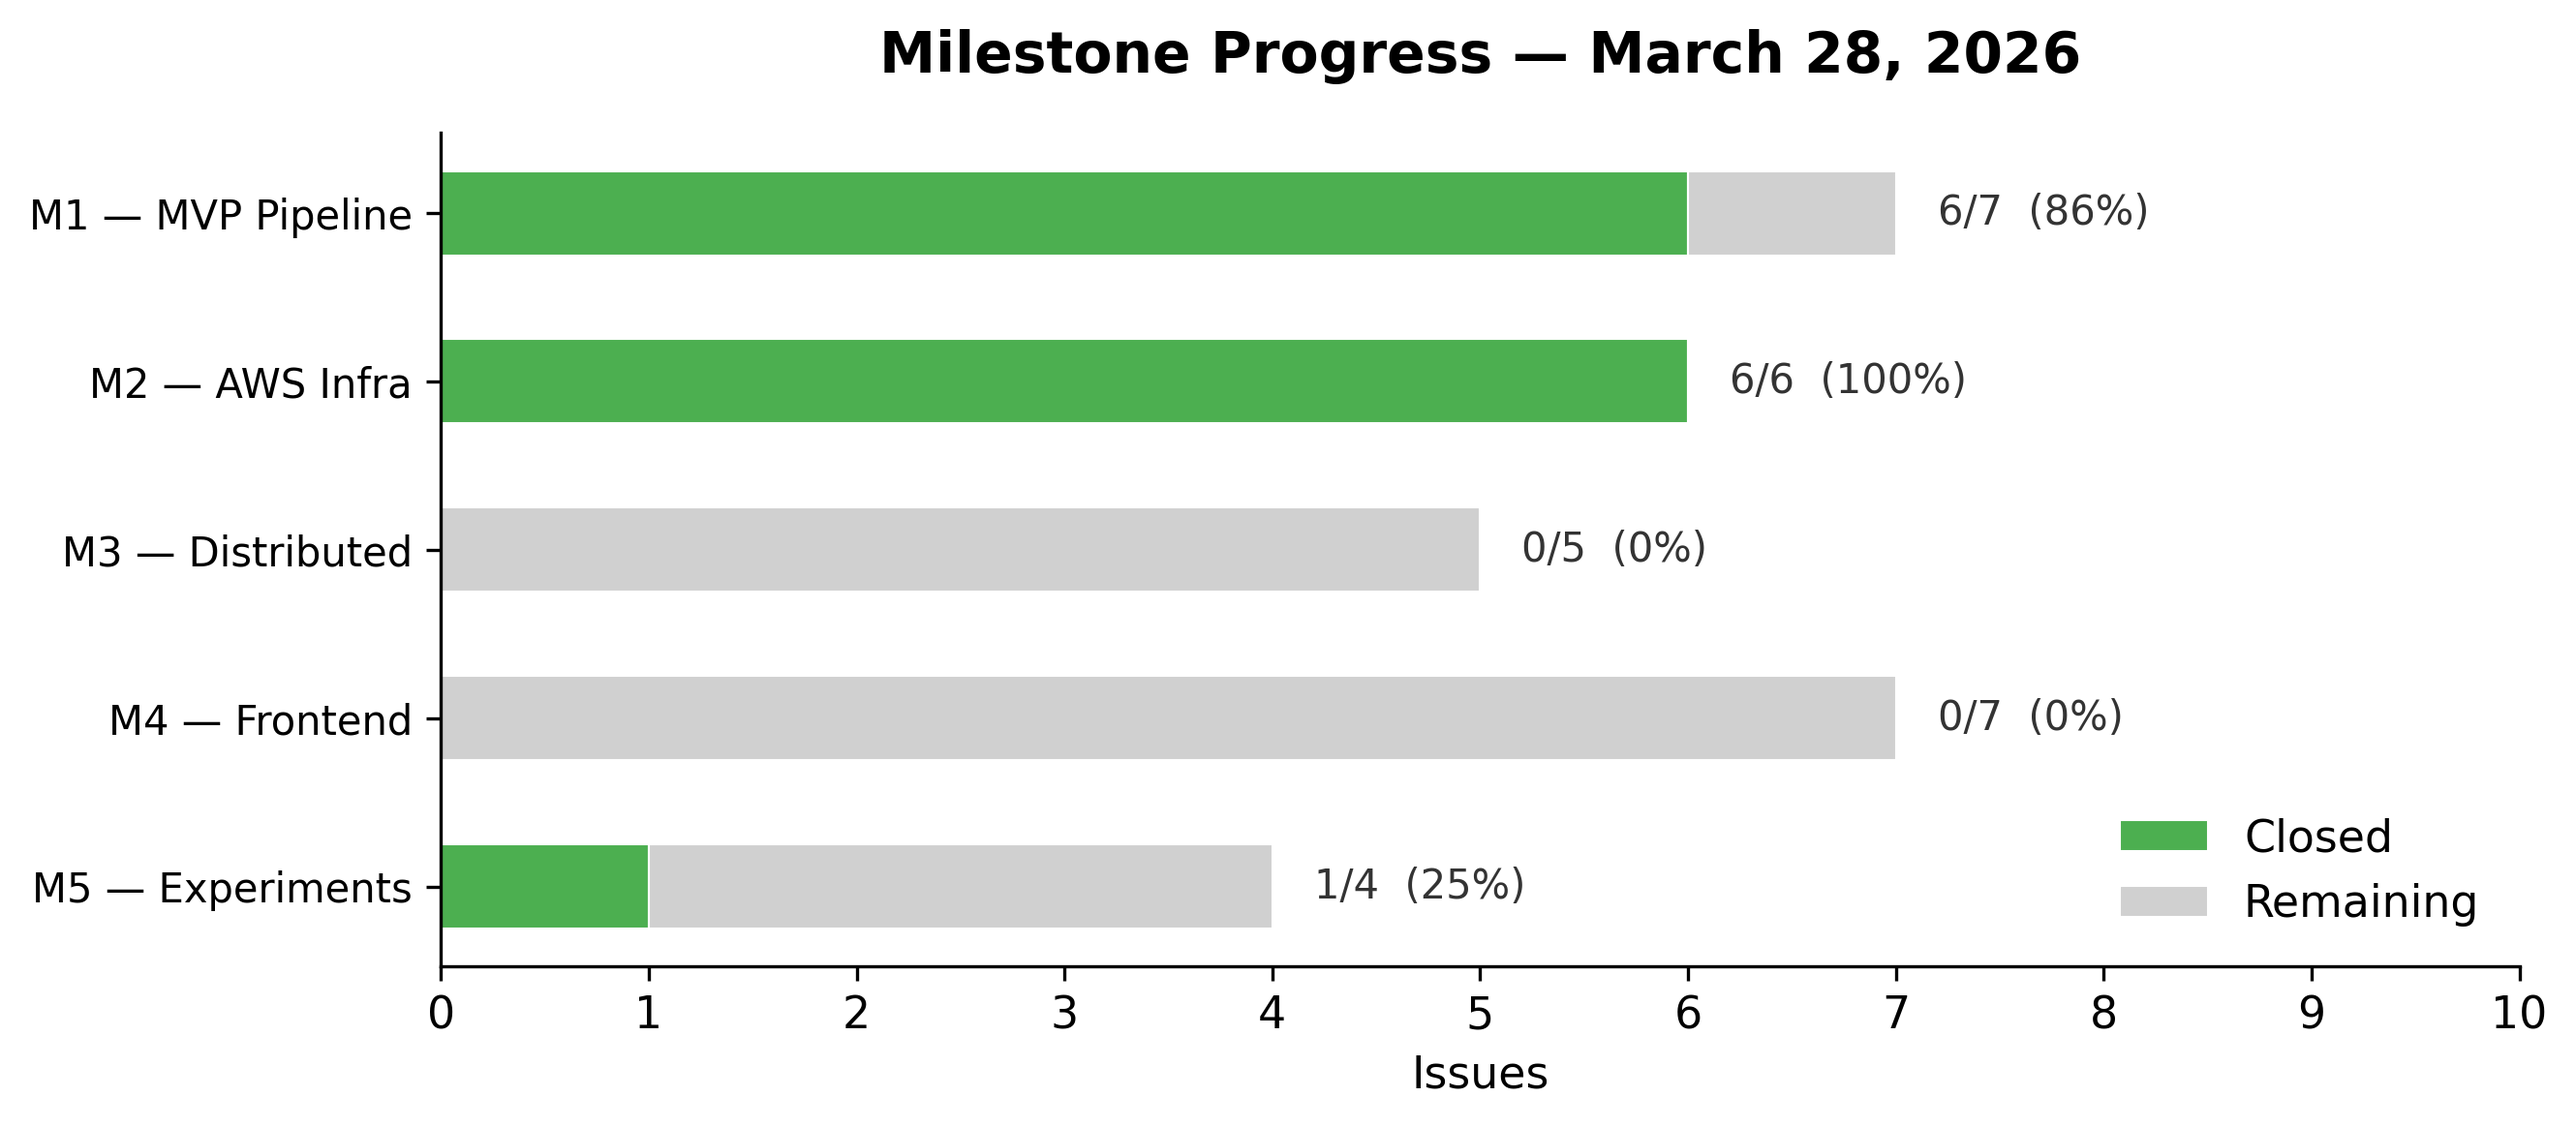
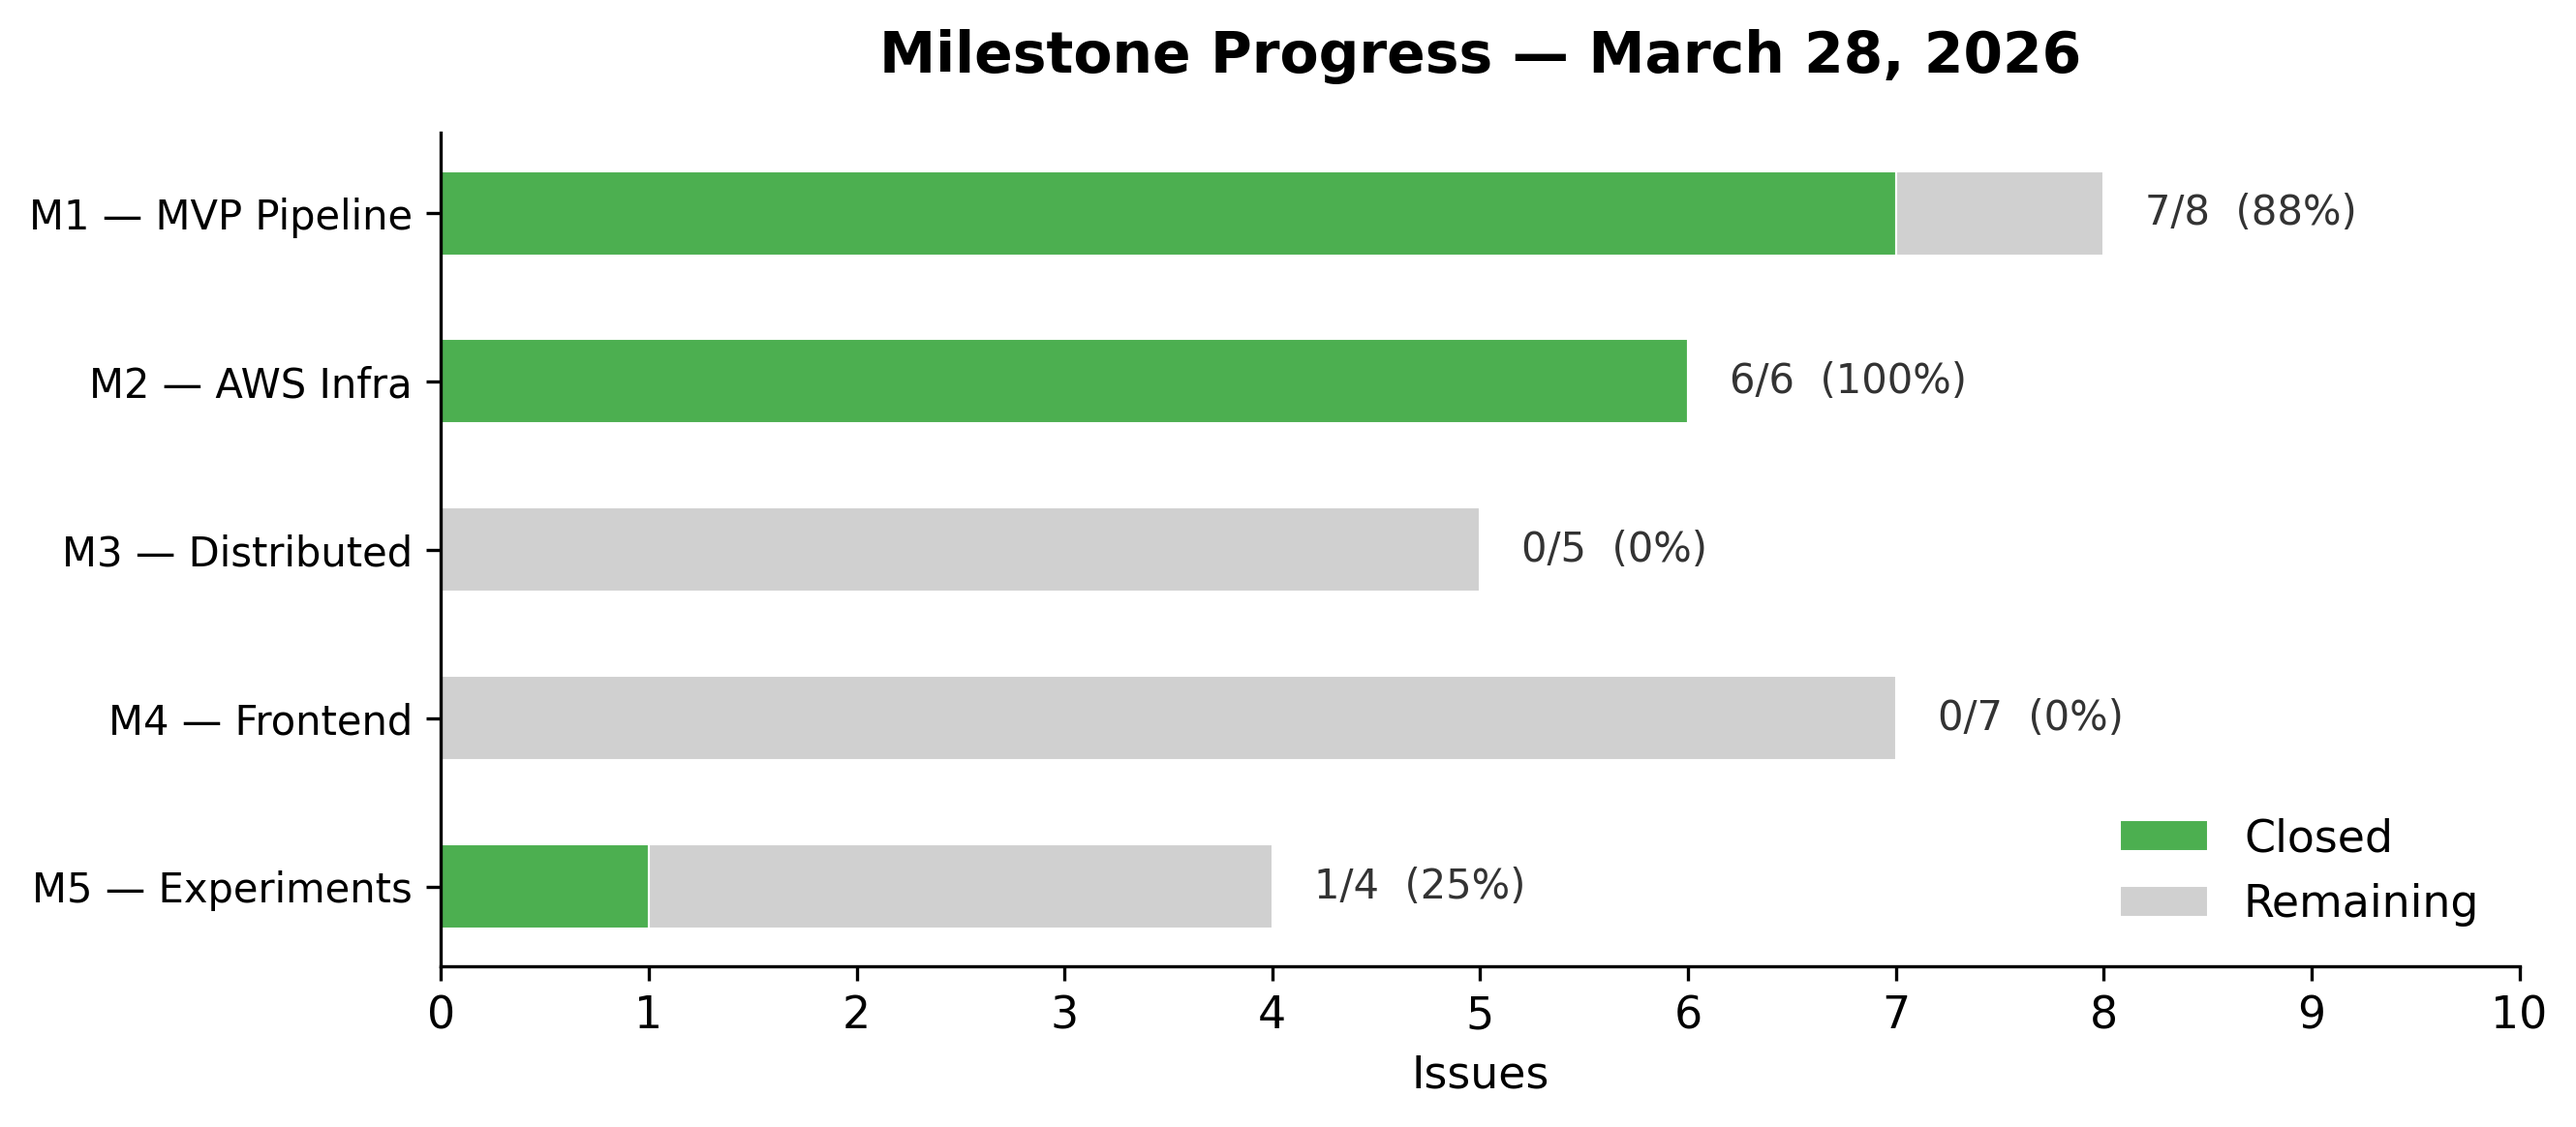
docs: add related projects, fix milestone counts, regenerate charts
- Add 3 related Piazza projects to report (from Jess's research)
- Add real pipeline output (2 generated scripts) to preliminary results
- Fix M1 count: 7/8 closed (was incorrectly 6/7) — includes #60 Kimi provider
- Fix chart y-axis clipping for request count annotations
- Regenerate all charts with corrected data

Changed region(s): [[0.6553, 0.1546, 0.9049, 0.2474]]

diff --git a/scripts/generate_charts.py b/scripts/generate_charts.py
@@ -59,7 +59,7 @@ def chart_token_usage() -> None:
     ax.set_xticklabels(stages, fontsize=10)
     ax.yaxis.set_major_formatter(ticker.FuncFormatter(lambda v, _: f"{int(v):,}"))
     ax.legend(frameon=False, loc="upper left")
-    ax.set_ylim(0, 6500)
+    ax.set_ylim(-1000, 6500)
 
     fig.tight_layout()
     fig.savefig(OUT_DIR / "token_usage_by_stage.png", dpi=300, bbox_inches="tight")
@@ -114,8 +114,8 @@ def chart_milestone_progress() -> None:
         "M4 — Frontend",
         "M5 — Experiments",
     ]
-    closed = [6, 6, 0, 0, 1]
-    total = [7, 6, 5, 7, 4]
+    closed = [7, 6, 0, 0, 1]
+    total = [8, 6, 5, 7, 4]
     remaining = [t - c for t, c in zip(total, closed)]
     pcts = [c / t * 100 for c, t in zip(closed, total)]
 

diff --git a/docs/homework/milestone-1-report.md b/docs/homework/milestone-1-report.md
@@ -53,7 +53,7 @@ Observability is built into the pipeline from day one, not retrofitted:
 
 | Milestone | Owner | Dates | Status |
 |-----------|-------|-------|--------|
-| M1 — MVP Pipeline | Sam | Mar 25–28 | 86% complete |
+| M1 — MVP Pipeline | Sam | Mar 25–28 | 88% complete (7/8, 1 suspended) |
 | M2 — AWS Infrastructure | Jess | Mar 28–Apr 4 | 100% complete (ahead of schedule) |
 | M3 — Distributed System | Both | Apr 4–8 | Planned |
 | M4 — Frontend | Sam | Apr 8–11 | Planned |
@@ -111,9 +111,29 @@ Every LLM call is tracked by the `UsageTracker` with stage identity, token count
 - **YouTube/TikTok Trends 2025** (CC BY 4.0) — 48,000 engagement signals providing ground-truth data on what content actually performs
 - **Viral content psychology research** — 8,300+ lines of synthesized research documents in the repository, distilled into pipeline prompts
 
-### Piazza Projects
+### Related Class Projects
 
-*[To be completed after reviewing Piazza submissions]*
+**1. Compute-Limited GenAI Platform Backend — Srijan Pokharel & Pranjal Kanel**
+
+This project is the closest conceptual match to ours. Both systems are built around a central question: how do you handle LLM workloads under compute and API constraints? Their architecture decouples request intake from processing via a queue and models compute scarcity by capping worker concurrency — then runs controlled experiments to observe saturation, tail latency, and overload behavior.
+
+The overlap is most direct in their Experiment 3 (bounded queue + API rate limiting vs. unbounded queue vs. rejection), which maps almost exactly to our Experiment 1, where we measure a Redis token bucket rate limiter under multi-tenant LLM API contention. Both experiments ask the same underlying question: what is the right overload strategy, and what does the system actually lose under each policy?
+
+The key architectural difference is in how the LLM is represented. Their system simulates the LLM pipeline with controlled preprocessing and inference delays, which gives clean experimental control over latency distributions. Our system calls real external APIs (Kimi K2.5 / Gemini), which introduces real-world variance — provider cold starts, unpredictable response times, and quota enforcement behavior that cannot be replicated in simulation. Each approach has its tradeoff: their setup isolates variables more cleanly; ours captures the messiness of production API dependencies.
+
+**2. StreamScale: Distributed Music Streaming Backend — Yatish, Mayank, Parthav**
+
+StreamScale and our project share a substantial technical substrate. Both systems are built on microservices deployed on AWS ECS Fargate behind an ALB, both use Redis and DynamoDB as their primary data layer, and both use Locust for load testing and measure the effect of horizontal ECS scaling on throughput and latency.
+
+The divergence is in what problem each system is solving. StreamScale's core challenge is write consistency under concurrent play events — ensuring that thousands of simultaneous writes do not silently drop updates, and demonstrating that an SQS-buffered event-driven architecture recovers accuracy that a naive direct-write approach loses under load. Our focus is multi-tenant backpressure — specifically, how multiple concurrent users sharing a single LLM API key interact under load, and how Redis SETNX atomicity ensures exactly one LLM call is issued per unique input across concurrent workers. Where StreamScale asks "do all writes land?", we ask "who gets to write, and when?". Both are concurrency problems, but at different layers of the stack.
+
+**3. Real-Time Distributed Monitoring + AI DevOps Agent — Dylan Pan, Zongwang Wang, Lucas Chen, Ellis Guo**
+
+This project shares two architectural patterns with ours that do not appear together in most other class projects. The first is a closed feedback loop where system outputs influence future behavior. Their AI DevOps Agent reads aggregated CPU trend data from Kafka and uses an LLM to generate and apply Terraform changes, which then flow back into the system as new producer metrics. Our pipeline has an analogous loop: historical video performance data is read from DynamoDB and injected into the next pipeline run's LLM prompts, so past outcomes shape future content generation decisions. In both cases, the LLM is not a terminal endpoint but a step inside a cycle.
+
+The second shared pattern is treating fault isolation as a first-class design concern. Their Experiment 7 (crashing the AI agent mid-cycle should not affect the rest of the Kafka pipeline) directly mirrors our Experiment 2, where a worker crash for one user's pipeline run should have no impact on other concurrent users' runs. Both experiments validate the same property: that an AI component's failure is contained and does not propagate to the broader system.
+
+The primary difference lies in what the LLM is doing. Their agent makes infrastructure decisions that directly mutate the live AWS environment via Terraform apply — high-stakes, low-frequency. Our LLM generates content across approximately 260 API calls per pipeline run under a shared rate limiter — high-frequency, lower-stakes per call, but sensitive to cumulative quota pressure.
 
 ---
 

diff --git a/docs/homework/project-plan.md b/docs/homework/project-plan.md
@@ -173,7 +173,7 @@ Key dependency relationships:
 
 | Milestone | Progress | Key Metrics |
 |-----------|----------|-------------|
-| **M1: MVP Pipeline** | 86% (6/7 closed, 1 suspended) | All 6 stages implemented + tested, Kimi provider integrated, first real pipeline run complete |
+| **M1: MVP Pipeline** | 88% (7/8 closed, 1 suspended) | All 6 stages implemented + tested, Kimi provider integrated, first real pipeline run complete |
 | **M2: AWS Infra** | 100% (6/6 closed) | Full Terraform stack: VPC, ECS, ALB, Redis, S3, DynamoDB, Lambda |
 | **M3: Distributed** | 0% (0/5) | Not started — on schedule per timeline (starts Apr 4) |
 | **M4: Frontend** | 0% (0/7) | Not started — on schedule per timeline (starts Apr 8) |
